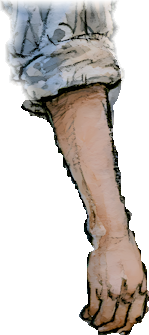
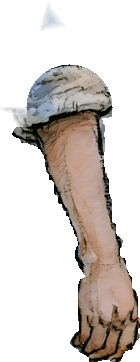
Changes layout

diff --git a/src/scenes/DeskScene.ts b/src/scenes/DeskScene.ts
@@ -3,6 +3,8 @@ import { W, H, u, SCALE } from '../config/constants';
 import { PhoneOverlay } from '../systems/PhoneOverlay';
 import { RecordPlayerOverlay } from '../systems/RecordPlayerOverlay';
 import { Achievements, AchievementPanel } from '../systems/achievements';
+import { addGlow } from '../systems/glow';
+import { addInkLabel, showInkLabel } from '../systems/InkLabel';
 
 /**
  * 桌子近景 · 独立一幕。俯视桌面,四样物件各是一个入口。
@@ -29,10 +31,10 @@ interface Hotspot {
 }
 
 const HOTSPOTS: Hotspot[] = [
-  { key: 'guitar', x: 667, y: 305, r: 180, label: '音乐' },
-  { key: 'album',  x: 281, y: 291, r: 150, label: '照片' },
+  { key: 'guitar', x: 667, y: 305, r: 180, label: 'Music' },
+  { key: 'album',  x: 281, y: 291, r: 150, label: 'Photos' },
   { key: 'phone',  x: 1108, y: 427, r: 90,  label: 'Social' },
-  { key: 'coffee', x: 892, y: 181, r: 90,  label: '闲话' },
+  { key: 'coffee', x: 892, y: 181, r: 90,  label: 'Small talk' },
 ];
 
 export class DeskScene extends Phaser.Scene {
@@ -90,16 +92,19 @@ export class DeskScene extends Phaser.Scene {
       const zone = this.add.circle(u(h.x), u(h.y), u(h.r), 0xffffff, 0.001)
         .setDepth(10).setInteractive({ useHandCursor: true });
 
-      /* 悬停:淡淡高亮圈 */
-      const ring = this.add.circle(u(h.x), u(h.y), u(h.r), 0xffe0a0, 0)
-        .setStrokeStyle(u(3), 0xffe0a0, 0).setDepth(9);
+      /* 悬停:物件被台灯照亮似的透出一层暖光,上方浮出手写标签(不画硬边圆圈) */
+      const glow = addGlow(this, u(h.x), u(h.y), u(h.r) * 1.25, 0xffd9a0, 0).setDepth(9);
+      const label = addInkLabel(this, u(h.x), u(h.y) - u(h.r) * 0.55, h.label, 24).setDepth(11);
 
       zone.on('pointerover', () => {
-        this.tweens.add({ targets: ring, alpha: 1, duration: 200 });
-        ring.setStrokeStyle(u(3), 0xffe0a0, 0.8);
+        this.tweens.killTweensOf(glow);
+        this.tweens.add({ targets: glow, alpha: 0.32, duration: 260, ease: 'Sine.easeOut' });
+        showInkLabel(this, label, true);
       });
       zone.on('pointerout', () => {
-        this.tweens.add({ targets: ring, alpha: 0, duration: 200 });
+        this.tweens.killTweensOf(glow);
+        this.tweens.add({ targets: glow, alpha: 0, duration: 220 });
+        showInkLabel(this, label, false);
       });
       zone.on('pointerdown', () => this.openItem(h.key));
     }
@@ -115,8 +120,8 @@ export class DeskScene extends Phaser.Scene {
 
   private buildHUD(): void {
     this.add.text(W / 2, H - u(50), 'Esc to leave', {
-      fontFamily: '"Nunito", sans-serif',
-      fontSize: `${16 * SCALE}px`, color: 'rgba(255,240,220,.85)',
+      fontFamily: '"Cormorant Garamond", serif', fontStyle: 'italic',
+      fontSize: `${19 * SCALE}px`, color: 'rgba(247,232,198,.9)',
       shadow: { offsetX: 0, offsetY: 2, color: 'rgba(0,0,0,.7)', blur: 6, fill: true },
     }).setOrigin(0.5).setDepth(20);
   }

diff --git a/src/config/projects.ts b/src/config/projects.ts
@@ -40,17 +40,18 @@ export const PROJECTS: Record<string, Project> = {
   superauto: {
     id: 'superauto',
     title: 'SuperAuto USA',
-    meta: 'Owner & web lead · Shopify e-commerce · Tukwila, WA',
-    problem: 'An auto parts store lives or dies by whether a customer can find the part that fits their car in a few clicks.',
+    meta: 'Front-end, UI/UX & product · Shopify auto parts store · Tukwila, WA',
+    // 数据来自 Shopify Analytics,Jun 22–Aug 23 2026 对比前一期 Apr 20–Jun 21 2026。
+    // 只用比例和流量,不放营收金额;上线前跟 Wilson 确认可以公开。
+    problem: 'One summer the dashboard showed traffic up 284% and conversion down 78%. Was the store broken, or was the data?',
     did: [
-      'Built and designed the Shopify storefront, including landing pages and the shop-by-brand search.',
-      'Designed a Window Visors page with a vehicle fitment finder, a before/after comparison slider and product video sections.',
-      'Unified typography, buttons and product cards into one consistent UI system across pages.',
-      'Runs day-to-day e-commerce operations alongside the site work.',
+      'Broke the funnel down by location, referrer and device, and traced ~306K of 429K sessions to one direct, desktop source in Singapore that slipped past the bot filter.',
+      'Recomputed without it: conversion ~0.86% vs 1.14% the period before, a real but far smaller dip. Checkout completion held steady (33% vs 36%).',
+      'Compared landing pages: an install guide grew from 51 to 1,004 sessions with zero add-to-carts, while top product pages reached cart about twice as often as top collection pages (3.0% vs 1.5%).',
+      'Built the Shopify storefront: shop-by-brand search, a fitment-finder visor page, and one shared UI system across pages.',
     ],
-    // TODO(Harry):补真实数字,比如改版前后的转化率、客单价、月订单量
-    result: 'TODO: add a measurable result (conversion, orders, or time saved).',
-    tags: ['Shopify', 'HTML/CSS', 'JavaScript', 'UX', 'E-commerce'],
+    result: 'Turned an alarming headline number into three next steps: filter that source out of reporting, add "shop this part" links inside install guides, and send search traffic to product pages.',
+    tags: ['Shopify Analytics', 'Funnel analysis', 'Segmentation', 'UX', 'E-commerce'],
     // TODO(Harry):填店铺网址
     links: [],
   },

diff --git a/src/systems/InkLabel.ts b/src/systems/InkLabel.ts
@@ -1,0 +1,51 @@
+import Phaser from 'phaser';
+import { u, SCALE } from '../config/constants';
+
+/**
+ * 悬停时浮现的手写感标签:没有底框,
+ * 暖色衬线斜体 + 柔和暗影 + 一笔墨线下划线,像灯光下写在画上的字。
+ */
+export function addInkLabel(
+  scene: Phaser.Scene, x: number, y: number, text: string, size = 22,
+): Phaser.GameObjects.Container {
+  const label = scene.add.text(0, 0, text, {
+    fontFamily: '"Cormorant Garamond", serif',
+    fontStyle: 'italic bold',
+    fontSize: `${size * SCALE}px`,
+    color: '#f7e8c6',
+    shadow: { offsetX: 0, offsetY: u(1), color: 'rgba(28,16,6,0.95)', blur: u(10), fill: true },
+  }).setOrigin(0.5, 1);
+
+  /* 手绘感下划线:中间粗两头细,微微起伏 */
+  const w = label.width * 0.82;
+  const line = scene.add.graphics();
+  line.fillStyle(0xe9c88a, 0.85);
+  const steps = 24;
+  const top: Phaser.Math.Vector2[] = [];
+  const bot: Phaser.Math.Vector2[] = [];
+  for (let i = 0; i <= steps; i++) {
+    const t = i / steps;
+    const px = -w / 2 + t * w;
+    const py = u(3) + Math.sin(t * Math.PI * 1.3 + 0.4) * u(1.2);
+    const th = Math.sin(t * Math.PI) * u(1.6) + u(0.3);
+    top.push(new Phaser.Math.Vector2(px, py - th / 2));
+    bot.unshift(new Phaser.Math.Vector2(px, py + th / 2));
+  }
+  line.fillPoints([...top, ...bot], true);
+  line.setScale(0, 1);
+
+  const c = scene.add.container(x, y, [label, line]).setAlpha(0);
+  c.setData('line', line);
+  c.setData('baseY', y);
+  return c;
+}
+
+export function showInkLabel(scene: Phaser.Scene, c: Phaser.GameObjects.Container, show: boolean): void {
+  const line = c.getData('line') as Phaser.GameObjects.Graphics;
+  const baseY = c.getData('baseY') as number;
+  scene.tweens.killTweensOf([c, line]);
+  scene.tweens.add({ targets: c, alpha: show ? 1 : 0, y: show ? baseY - u(6) : baseY,
+    duration: show ? 260 : 180, ease: 'Sine.easeOut' });
+  scene.tweens.add({ targets: line, scaleX: show ? 1 : 0,
+    duration: show ? 420 : 150, delay: show ? 80 : 0, ease: 'Cubic.easeOut' });
+}

diff --git a/src/scenes/RoomScene.ts b/src/scenes/RoomScene.ts
@@ -224,15 +224,21 @@ export class RoomScene extends Phaser.Scene {
     for (const it of this.interactives) {
       const anchorY = bubbleY[it.x] ?? (it.y - 180);
       const c = this.add.container(u(it.x), u(anchorY) - u(60)).setDepth(900).setAlpha(0);
-      const bubble = this.add.circle(0, 0, u(18), 0xffffff, 0.95);
-      const e = this.add.text(0, 0, 'E', {
-        fontFamily: '"Nunito", sans-serif',
-        fontSize: `${17 * SCALE}px`, fontStyle: 'bold', color: '#333',
+      /* 按键提示:墨线描边的小键帽,半透明暗底,跟画风一致 */
+      const bubble = this.add.graphics();
+      bubble.fillStyle(0x1c1006, 0.45);
+      bubble.fillRoundedRect(-u(14), -u(14), u(28), u(28), u(6));
+      bubble.lineStyle(u(1.5), 0xf7e8c6, 0.9);
+      bubble.strokeRoundedRect(-u(14), -u(14), u(28), u(28), u(6));
+      const e = this.add.text(0, -u(1), 'E', {
+        fontFamily: '"Cormorant Garamond", serif', fontStyle: 'bold',
+        fontSize: `${20 * SCALE}px`, color: '#f7e8c6',
+        shadow: { offsetX: 0, offsetY: u(1), color: 'rgba(28,16,6,0.9)', blur: u(6), fill: true },
       }).setOrigin(0.5);
-      const label = this.add.text(0, u(30), it.label, {
-        fontFamily: '"Nunito", sans-serif',
-        fontSize: `${14 * SCALE}px`, color: '#fff',
-        backgroundColor: 'rgba(0,0,0,.6)', padding: { x: 10, y: 4 },
+      const label = this.add.text(0, u(20), it.label, {
+        fontFamily: '"Cormorant Garamond", serif', fontStyle: 'italic bold',
+        fontSize: `${19 * SCALE}px`, color: '#f7e8c6',
+        shadow: { offsetX: 0, offsetY: u(1), color: 'rgba(28,16,6,0.95)', blur: u(10), fill: true },
       }).setOrigin(0.5, 0);
       c.add([bubble, e, label]);
       this.prompts.set(it, c);

diff --git a/src/scenes/AtticScene.ts b/src/scenes/AtticScene.ts
@@ -7,6 +7,7 @@ import { ScannerSound, playStairs } from '../systems/AtticAudio';
 import { ProjectCard } from '../systems/ProjectCard';
 import { ProcessWall } from '../systems/ProcessWall';
 import { addGlow } from '../systems/glow';
+import { addInkLabel, showInkLabel } from '../systems/InkLabel';
 
 /**
  * 阁楼工作室 · 从 RoomScene 的楼梯上来。
@@ -142,17 +143,14 @@ export class AtticScene extends Phaser.Scene {
       const glow = addGlow(this, p.x, p.y, r * 1.1, 0xffe2a8, 0).setDepth(8);
       this.tweens.add({ targets: glow, alpha: { from: 0.10, to: 0.22 }, duration: 1300 + Math.random() * 500,
         yoyo: true, repeat: -1, ease: 'Sine.easeInOut', delay: Math.random() * 800 });
-      const label = this.add.text(p.x, p.y - r - u(16), s.label, {
-        fontFamily: '"Nunito", sans-serif', fontSize: `${15 * SCALE}px`, color: '#1e1610', fontStyle: 'bold',
-        backgroundColor: 'rgba(250,244,230,0.95)', padding: { x: u(10), y: u(5) },
-      }).setOrigin(0.5, 1).setDepth(25).setAlpha(0);
+      const label = addInkLabel(this, p.x, p.y - r - u(10), s.label).setDepth(25);
       const hit = this.add.circle(p.x, p.y, r, 0xffffff, 0.001).setInteractive({ useHandCursor: true }).setDepth(24);
       hit.on('pointerover', () => {
-        this.tweens.add({ targets: label, alpha: 1, y: p.y - r - u(22), duration: 160 });
+        showInkLabel(this, label, true);
         glow.setScale(glow.scaleX * 1.15);
       });
       hit.on('pointerout', () => {
-        this.tweens.add({ targets: label, alpha: 0, y: p.y - r - u(16), duration: 160 });
+        showInkLabel(this, label, false);
         glow.setScale(glow.scaleX / 1.15);
       });
       hit.on('pointerdown', () => this.activate(s.id));

diff --git a/src/config/heroRig.ts b/src/config/heroRig.ts
@@ -13,14 +13,14 @@ export const RIG = {
   parts: {
     torso: { w: 241, h: 494, px: 119, py: 454 },
     head: { w: 239, h: 266, px: 98, py: 224 },
-    arm_upper: { w: 134, h: 353, px: 90, py: 53 },
-    arm_upper_far: { w: 129, h: 347, px: 85, py: 53 },
-    arm_lower: { w: 149, h: 335, px: 78, py: 80 },
-    arm_lower_far: { w: 149, h: 335, px: 78, py: 80 },
-    thigh: { w: 241, h: 472, px: 118, py: 100 },
-    thigh_far: { w: 241, h: 472, px: 118, py: 100 },
-    shin: { w: 246, h: 432, px: 99, py: 120 },
-    shin_far: { w: 246, h: 432, px: 99, py: 120 },
+    arm_upper: { w: 134, h: 273, px: 90, py: 53 },
+    arm_upper_far: { w: 129, h: 273, px: 85, py: 53 },
+    arm_lower: { w: 140, h: 362, px: 69, py: 107 },
+    arm_lower_far: { w: 140, h: 362, px: 69, py: 107 },
+    thigh: { w: 241, h: 352, px: 118, py: 100 },
+    thigh_far: { w: 241, h: 352, px: 118, py: 100 },
+    shin: { w: 246, h: 381, px: 99, py: 69 },
+    shin_far: { w: 246, h: 381, px: 99, py: 69 },
   } as Record<string, PartMeta>,
   height: 1181,
 } as const;

diff --git a/tools/build_rig.py b/tools/build_rig.py
@@ -154,7 +154,10 @@ def repair(region, remove):
     游戏里也只会露出肢体边缘一道月牙,那里的颜色是和边界对齐的,看不出接缝。
     """
     hole = (cv2.dilate(remove, np.ones((7, 7), np.uint8)) & region).astype(np.uint8)
-    inner = cv2.erode(region, np.ones((11, 11), np.uint8))       # 别把轮廓墨线拉进来
+    # 别把左右轮廓墨线拉进来。只做横向收缩:补布料是逐行左右取样的,
+    # 上一版用 11×11 连上下边也收掉了,躯干最底下几行(衬衫下摆)取不到样本,
+    # 手臂那截没被抹掉,下摆上就留了一条肉色横杠。
+    inner = cv2.erode(region, np.ones((1, 11), np.uint8))
     out = rgb.copy().astype(np.float32)
 
     for y in np.where(hole.any(axis=1))[0]:
@@ -262,8 +265,10 @@ rig["parts"]["head"] = emit("head", head_geo, core_head, NECK)
 
 # ══ 手臂 ════════════════════════════════════════════════════════════════
 # 肘部同心接缝:上臂止于 disc(ELBOW,R) 之外,前臂补满 disc(ELBOW,R+3)。
-arm_up_raw = m_arm & above(ELBOW[1] + 80) & (1 - disc(ELBOW, R_ELBOW))
-arm_lo_raw = m_arm & below(ELBOW[1] - 80)
+# 和膝盖同理:上臂严格止于肘部水平线。上一版上下各多留 80px,
+# 前臂那截多出来的上段屈肘时会甩到上臂外面,露出一块方形的肉色(穿模)。
+arm_up_raw = m_arm & above(ELBOW[1]) & (1 - disc(ELBOW, R_ELBOW))
+arm_lo_raw = m_arm & below(ELBOW[1])
 
 # 近侧手臂压在完整躯干之上 —— 底下已经补成干净布料,旋转不可能露出背景,
 # 圆盖只需消掉肩部那条直裁边,剩下交给羽化。
@@ -279,16 +284,21 @@ rig["parts"]["arm_upper_far"] = emit("arm_upper_far", far_up, arm_up_raw & (1 - 
                                      SHOULDER, tint=FAR)
 
 # 圆盖必须完全不透明:它填的是上臂让出来的那块圆,一旦被羽化成半透明就会透出背景
-arm_lo = arm_lo_raw | disc(ELBOW, R_ELBOW + 3)
-core_arm_lo = (arm_lo_raw & below(ELBOW[1] + 20)) | disc(ELBOW, R_ELBOW + 3)
+arm_hull = cv2.dilate(m_arm, np.ones((5, 5), np.uint8))
+elbow_cap = disc(ELBOW, R_ELBOW + 3) & arm_hull
+arm_under = hideable(m_arm & above(ELBOW[1]) & (1 - elbow_cap), ELBOW,
+                     (near_up & far_up).astype(np.uint8), MAX_ELBOW)
+arm_lo = arm_lo_raw | elbow_cap | arm_under
+core_arm_lo = (arm_lo_raw & below(ELBOW[1] + 20)) | elbow_cap
 rig["parts"]["arm_lower"] = emit("arm_lower", arm_lo, core_arm_lo, ELBOW)
 rig["parts"]["arm_lower_far"] = emit("arm_lower_far", arm_lo, core_arm_lo, ELBOW, tint=FAR)
 
 # ══ 腿 ══════════════════════════════════════════════════════════════════
 # 膝部同心接缝,和肘部同理。另外画稿里手掌压在大腿上,得先抹掉。
 leg_rgb = repair(m_leg, m_arm)
-thigh_raw = m_leg & above(KNEE[1] + 120) & (1 - disc(KNEE, R_KNEE))
-shin_raw = m_leg & below(KNEE[1] - 120)
+# 大腿严格止于膝盖水平线(圆盖处挖空)。上一版留到膝下 120px:
+# 那截其实是小腿,却跟着大腿转、还画在小腿之上,屈膝时就在膝后戳出一块(穿模)。
+thigh_raw = m_leg & above(KNEE[1]) & (1 - disc(KNEE, R_KNEE))
 
 r_hip = float(np.clip(inscribed(HIP, ((torso_geo | m_leg) > 0).astype(np.uint8)) - 3, 10, 110))
 r_hip = min(r_hip, inscribed(HIP, m_all) - 2)
@@ -297,8 +307,14 @@ core_thigh = thigh_raw & (1 - torso_geo)
 rig["parts"]["thigh"] = emit("thigh", thigh, core_thigh, HIP, src=leg_rgb)
 rig["parts"]["thigh_far"] = emit("thigh_far", thigh, core_thigh, HIP, src=leg_rgb, tint=FAR)
 
-shin = shin_raw | disc(KNEE, R_KNEE + 3)
-core_shin = (shin_raw & below(KNEE[1] + 20)) | disc(KNEE, R_KNEE + 3)
+# 小腿 = 膝下整段 ∪ 膝部圆盖 ∪ 膝上"转到最大角度仍藏在大腿后面"的垫底(约束 3)。
+# 上一版膝上直接多留 120px:屈膝时那截绕膝反向甩到大腿前面,膝盖前就鼓出一个包。
+# 圆盖也要限制在腿的轮廓内,否则站着不动就有一块圆弧露在裤腿外。
+leg_hull = cv2.dilate(m_leg, np.ones((5, 5), np.uint8))
+knee_cap = disc(KNEE, R_KNEE + 3) & leg_hull
+shin_under = hideable(m_leg & above(KNEE[1]) & (1 - knee_cap), KNEE, thigh, MAX_KNEE)
+shin = (m_leg & below(KNEE[1])) | knee_cap | shin_under
+core_shin = (m_leg & below(KNEE[1] + 20)) | knee_cap
 rig["parts"]["shin"] = emit("shin", shin, core_shin, KNEE, src=leg_rgb)
 rig["parts"]["shin_far"] = emit("shin_far", shin, core_shin, KNEE, src=leg_rgb, tint=FAR)
 
